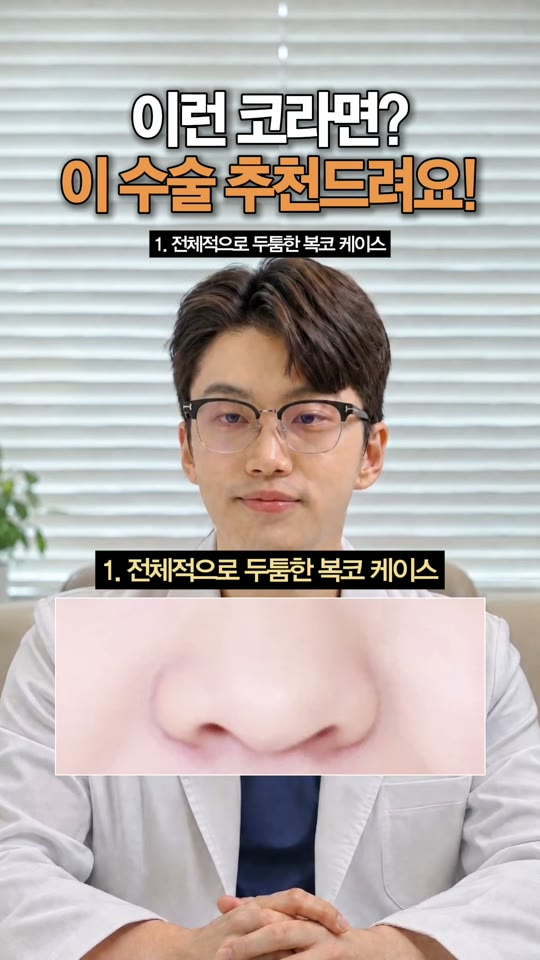
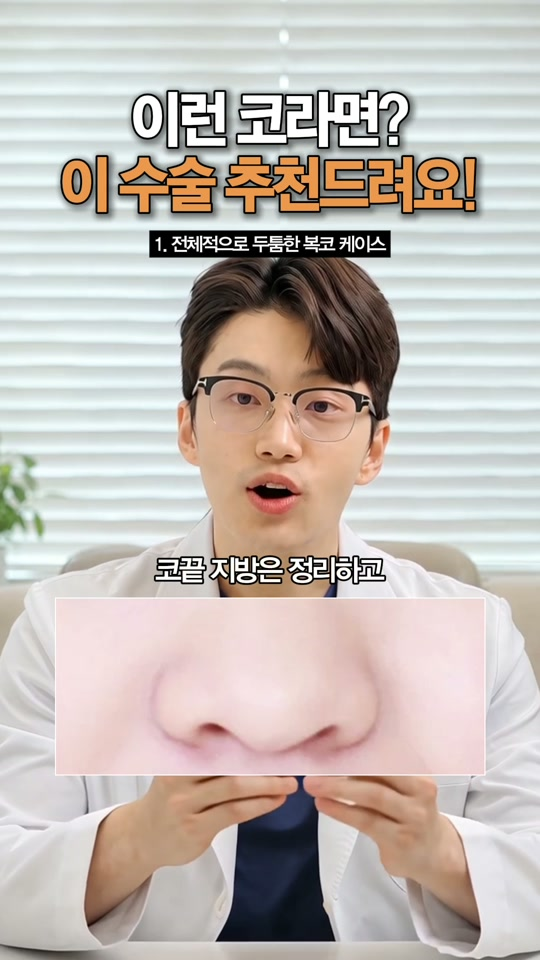
Update page 5 Heeso capture from 38s video

diff --git a/index.html b/index.html
@@ -809,7 +809,7 @@
     </div>
     <div class="col">
       <span class="tg o">○ 희소 버전</span>
-      <div class="ph"><img src="assets/final_case1.jpg" alt="희소 버전 완성 영상 장면"></div>
+      <div class="ph"><img src="assets/final_case1.jpg?v=2" alt="희소 버전 완성 영상 장면"></div>
       <p class="q">이런 코라면?<br>이 수술 추천드려요!</p>
       <p class="note2">검증된 훅 문장과 컷 구조만 가져오고,<br>부위와 케이스 4개는 희소 버전으로 새로 썼습니다.</p>
     </div>
